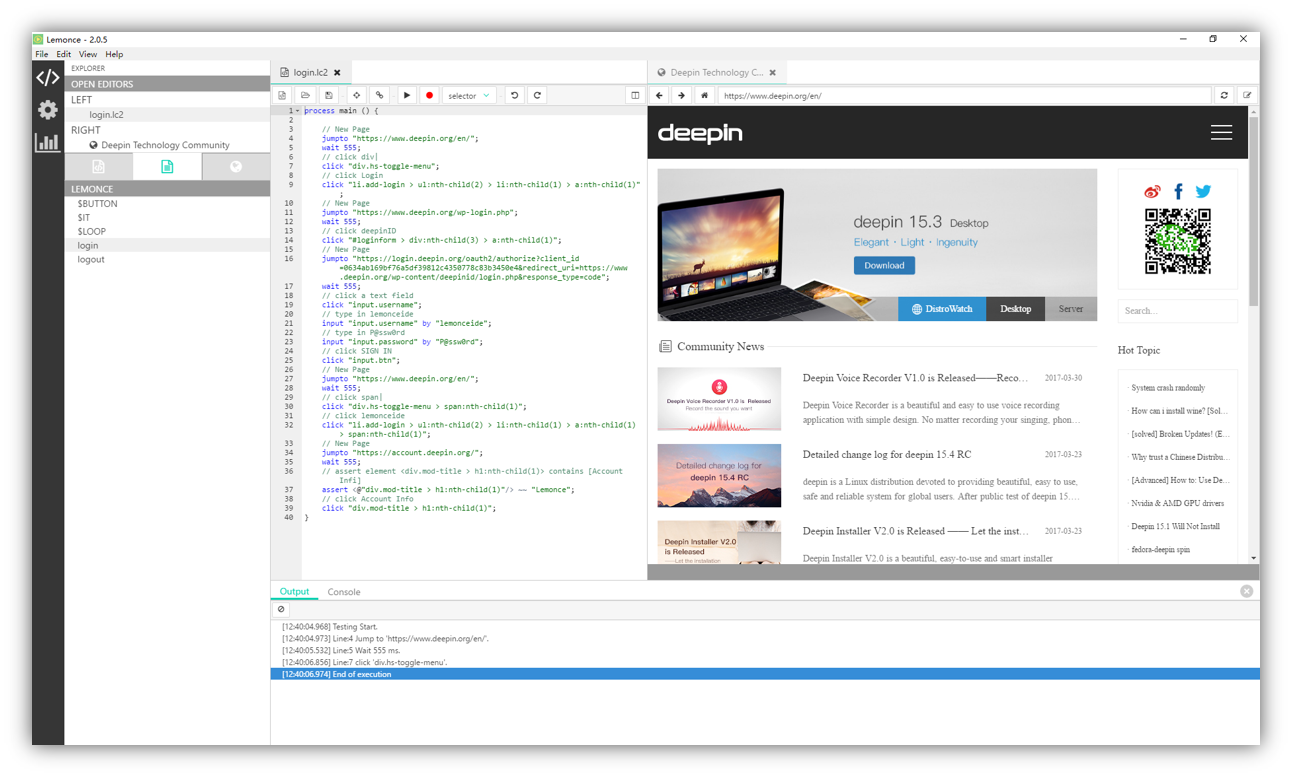
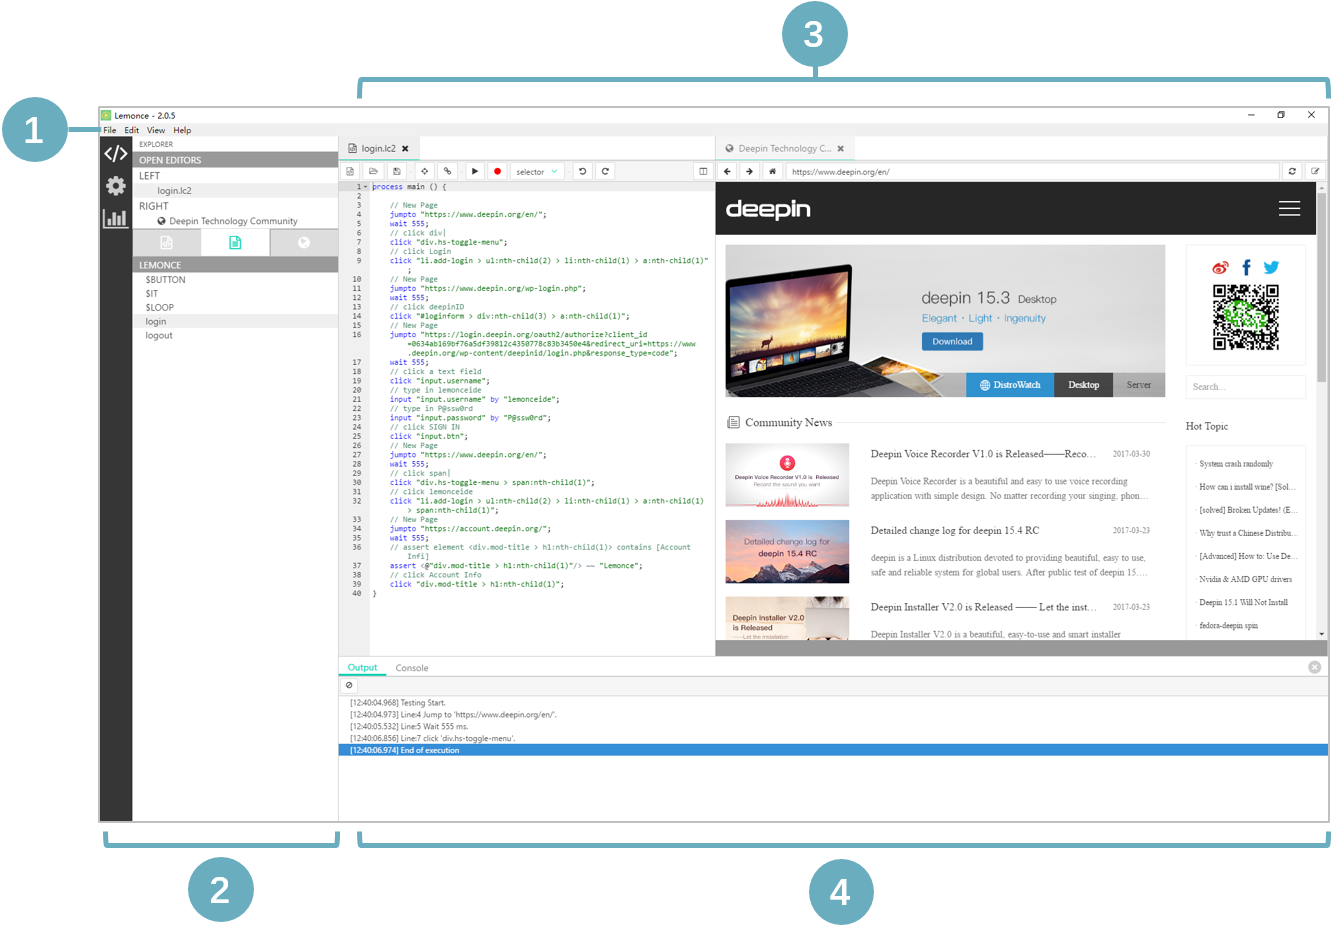
Update Docs 4.5-2

diff --git a/themes/zz/source/css/index.css b/themes/zz/source/css/index.css
@@ -242,6 +242,10 @@ figure.highlight pre {
 	width:640px;
     height:360px;
 }
+.large-images-special{
+	width:640px;
+    height:450px;
+}
 .long-images{
 	width:640px;
 	height:60px;

diff --git a/source/zh-cn/docs/setup/interface.md b/source/zh-cn/docs/setup/interface.md
@@ -3,7 +3,9 @@ title: '灵萌测界面'
 
 在配置完成工作空间以后，灵萌测客户端的界面如下图被分为四个区域。类似于一些代码编辑IDE，灵萌测采用了常用的用户界面：资源管理器列在左方，显示了用户能选择到的所有文件及文件夹；编辑器放在右方，显示用户正在编辑的内容。
 
-<img class="large-images" src="/images/firstrun-02.png">
+下图是一个完整的灵萌测界面，其中不同的数字标明了不同的功能区域，下面会进行详细介绍。
+
+<img class="large-images-special" src="/images/setup/interface-whole.png">
 <br>
 
 ## 1 菜单栏
@@ -50,20 +52,20 @@ title: '灵萌测界面'
 
 #### 2.1 **资源管理器** <i class="fa fa-code fa-2x"></i> 
 
-**2.1.1 打开编辑区** 
+**I. 已打开的编辑器** 
 
 资源管理器用于浏览，打开和管理用户项目中所有的文件及文件夹。
 
-在资源管理器的顶部为“**OPEN EDITORS**”的区域，用于临时显示正在编辑或者待编辑的多个文件。例如，如果用户正在对文件进行以下四种操作，该文件就会被列入到“**OPEN EDITORS**”中。
+在资源管理器的顶部为“**已打开的编辑器**”的区域，用于临时显示正在编辑或者待编辑的多个文件。例如，如果用户正在对文件进行以下四种操作，该文件就会被列入到“**已打开的编辑器**”中。
 
 - 对一个文件做出改动。
 - 在编辑器顶栏上双击文件名称。
 - 在资源管理器中双击一个文件。
 - 打开一个不属于当前文件夹的文件。
 
-只需在“**OPEN EDITORS**”的区域点击一个文件，该文件立即在灵萌测中被激活。当用户结束当前文件的编辑之后，只需点击文件名之前的 <i class="fa fa-times"></i> 即可在“**OPEN EDITORS**”中移出该文件。
+只需在“**已打开的编辑器**”的区域点击一个文件，该文件立即在灵萌测中被激活。当用户结束当前文件的编辑之后，只需点击文件名之前的 <i class="fa fa-times"></i> 即可在“**已打开的编辑器**”中移出该文件。
 <br>
-**2.1.2 编辑区激活按钮**
+**II. 编辑区激活按钮**
 
 以下三个按钮，用于激活编辑区的相应区域。
 
@@ -74,7 +76,7 @@ title: '灵萌测界面'
 - <i class="fa fa-globe fa-2x" style="color:green"></i> **打开webview** 
 <br>
 
-**2.1.3 工作空间** 
+**III. 工作空间** 
 
 用户可以点击 **NO WORKSPCACE** 标签下的 <span class="button"> open folder</span> 按钮来打开一个文件夹作为工作空间。
 
@@ -102,18 +104,48 @@ title: '灵萌测界面'
 <img class="large-images" src="/">
 <br>
 
-## 4 编辑区
+## 3 编辑区
 ---
 
-编辑文件的主要区域。用户可以在这里打开足够多的编辑器，也能在编辑的同时在另一侧打开网页视图。
-关于编辑区的更多内容在[用例编辑器](/zh-cn/docs/code-editor/case-editor.html)中。
+编辑文件的主要区域。用户可以在这里打开足够多的编辑器，也能在编辑的同时在另一侧打开网页视图。推荐用户采用分离视图，即一边是用例/套件编辑器，一边是网页视图的方式来编辑。
 
-#### 4.1 Case-Editor && WebView
-
-#### 4.2 Suite-Editor && WebView
+关于编辑区的内容在这里就不再赘述，更多详细的介绍请参考[编辑器](/zh-cn/docs/code-editor/index.html)一节。
 
 <br>
 
-## 5 输出 && 调试面板
+## 4 输出 && 调试面板
 ---
 用户可以在编辑区下方显示不同的面板，用于输出或调试信息、错误或警告。
+
+- 顶部的“输出”与“调试”按钮可用于切换这两个不同的面板；
+- 右上角的 <i class="fa fa-times-circle" color="grey"></i> 则用于关闭当前面板。若想再次启动面板，用户可在菜单栏的“编辑”子菜单中再次将其调出；
+- 点击 <i class="fa fa-ban"></i> ，可清空当前面板的内容。
+<br>
+
+#### 4.1 **输出面板**
+
+以视频中的"logout"用例为例，运行完毕之后会在面板中生成以下内容。
+<pre class='sublemon'>
+[3:10:57.926] Testing Start.
+[3:10:57.932] Line:4 Jump to 'https://www.deepin.org/en/'.
+[3:10:58.490] Line:5 Wait 555 ms.
+[3:11:00.157] Line:7 click 'div.hs-toggle-menu'.
+[3:11:01.495] Line:11 Jump to 'https://www.deepin.org/wp-login.php'.
+[3:11:02.052] Line:12 Wait 555 ms.
+[3:11:02.250] Line:14 click '#loginform > div:nth-child(3) > a:nth-child(1)'.
+[3:11:02.746] Line:16 Jump to 'https://login.deepin.org/oauth2/authorize?client_id=0634ab169bf76a5df39812c4350778c83b3450e4'.
+[3:11:03.305] Line:17 Wait 555 ms.
+[3:11:08.306] RuntimeError, line:19,Error: No-response from last fetching.
+[3:11:08.310] End of execution
+</pre>
+
+可见输出信息可分为以下几个部分：
+- 测试开始（Testing Start）与执行结束（End of execution 会以蓝色高亮来区隔连续的用例）
+- 系统时间（中括号内部）
+- 执行代码所在的行数
+- 具体的执行用例的内容
+<br>
+
+#### 4.2 **调试面板**
+
+用户可在调试面板中尝试使用Lemoncase2语言。

diff --git a/source/docs/setup/interface.md b/source/docs/setup/interface.md
@@ -3,7 +3,7 @@ title: 'Lemonce Interface'
 
 After the configuration, you will see the UI of Lemonce is divided into four areas a as below. Like code editors, Lemonce adopts a common user interface and layout of an explorer on the left, showing all of the files and folders you have access to, and an editor on the right, showing the content of the files you have opened.
 
-<img class="large-images" src="/images/setup/interface-whole.png">
+<img class="large-images-special" src="/images/setup/interface-whole.png">
 <br>
 
 ## 1 Menu bar
@@ -20,14 +20,14 @@ Located on the top including File,Edit,View and Help.
 - **Restart** `Ctrl+R` Restart Lemonce.
 - **Exit** `Ctrl+W` Exit Lemonce.
 
-#### Edit
+#### 1.2 Edit
 
 - **Undo / Redo** `Ctrl+Z`/`Ctrl+Y`
 - **Cut / Copy / Paste** `Ctrl+X`/`Ctrl+C`/`Ctrl+V`
 - **Delete** `Del`
 - **Select All** `Ctrl+A`
 
-#### View
+#### 1.3 View
 
 - **Command Palette** `Ctrl+Shift+P` Open a command palette at the top of editor area.
 - **Toggle Dev Tool** `Ctrl+Shift+I` 
@@ -37,21 +37,23 @@ Located on the top including File,Edit,View and Help.
 - **Toggle Side Bar** `Ctrl+B` Show or hide side bar.
 - **Debug Console** `Ctrl+D` Open/Close the Panel.
 
-#### Help
+#### 1.4 Help
 
 - **Learn More** 
-- **License**
+- **License** About the license.
+
+You can ...
 <br>
 
-## View bar && Side bar
+## 2 View bar && Side bar
 ---
 View bar is located on the far left-hand side including three buttons to switch the view of Side bar, which can assist you while working on your project.
 
-####  <i class="fa fa-code fa-2x"></i> **Explore**  
+#### 2.1 **Explore**  <i class="fa fa-code fa-2x"></i>
 
 The Explorer is used to browse, open, and manage all of the files and folders in your project. 
-<br>
-**OPEN EDITORS** 
+
+**I. OPEN EDITORS** 
 
 At the top of the Explorer is a section labeled **OPEN EDITORS**. This is a list of active files or previews. These are files you previously opened in Lemonce that you're working on. For example, a file will be listed in the **OPEN EDITORS** section if you:
 
@@ -63,8 +65,8 @@ At the top of the Explorer is a section labeled **OPEN EDITORS**. This is a list
 Just click an item in the OPEN EDITORS section, and it becomes active in Lemonce.
 
 Once you are done with your task, you can remove but not delete files seperately from the **OPEN EDITORS** section by click <i class="fa fa-times"></i>.
-<br>
-**Buttons of editor groups**
+
+**II. Buttons of editor groups**
 
 There are three buttons to active different corresponding areas of editor groups, you can find more detailed information below. 
 
@@ -74,9 +76,8 @@ There are three buttons to active different corresponding areas of editor groups
 - <i class="fa fa-file-text-o fa-2x" style="color:green"></i> **Toggle Suite Panel**
 
 - <i class="fa fa-globe fa-2x" style="color:green"></i> **Open Webview**
-<br>
 
-**WORKSPACE** 
+**III. WORKSPACE** 
 
 You can click the button <span class="button"> open folder</span> under the label **NO WORKSPCACE** to open a folder as workspace at the first time.
 
@@ -86,13 +87,13 @@ After opening a folder in Lemonce, the contents of the folder are shown in the E
 - `Move files and folders with drag and drop.`
 - `Use the context menu to explore all options.`
 
-#### <i class="fa fa-cog fa-2x"></i> **Config Panel** 
+#### 2.2 **Config Panel** <i class="fa fa-cog fa-2x"></i> 
 
 There are just two functions below in side bar now,more functions are coming soon.
 - Change the language to English/Chinese
 - Open/close command pallete
 
-#### <i class="fa fa-bar-chart fa-2x"></i> **View Reports** 
+#### 2.3 **View Reports** <i class="fa fa-bar-chart fa-2x"></i>
 
 Reports are listed in side bar chronologically.Click one of them you will see [more details](docs/code-editor/index.html) in popup of reports.
 <br>
@@ -100,7 +101,7 @@ Reports are listed in side bar chronologically.Click one of them you will see [m
 <img class="large-images" src="/">
 <br>
 
-## Editor Groups
+## 3 Editor Groups
 ---
 The main area to edit your files. You can open as many as editors you want and you can also open Webview at one side while editing.
 More details are offered in [Code Editor](docs/code-editor/index.html).
@@ -111,6 +112,6 @@ More details are offered in [Code Editor](docs/code-editor/index.html).
 
 <br>
 
-## Output && Console panel
+## 4 Output && Console panel
 ---
 You can display different panels below the editor region for output or debug information or errors and warnings.
